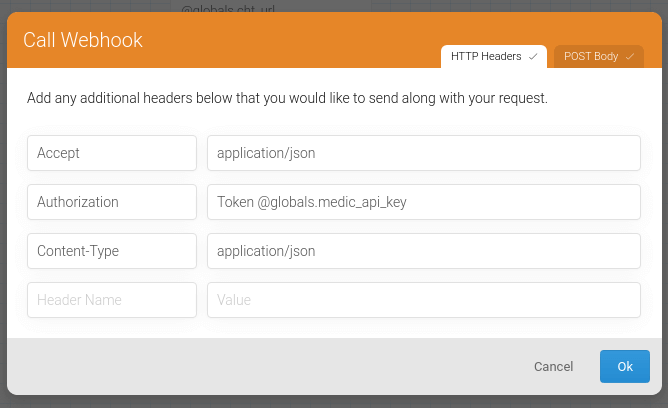
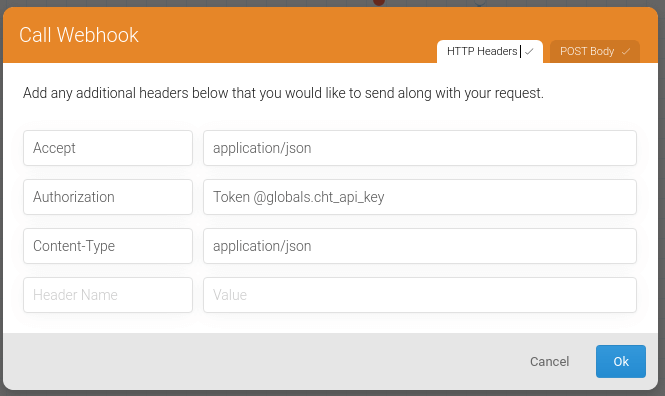
Switch medic to cht where appropriate.

diff --git a/content/en/apps/guides/messaging/rapidpro.md b/content/en/apps/guides/messaging/rapidpro.md
@@ -19,16 +19,16 @@ As of v3.11.0, SMS messages can be sent and received using [RapidPro](https://co
 
 ### Store globals
 
-Generate a long unique key to use as the `medic-api-key`.
+Generate a long unique key to use as the `cht_api_key`.
 
 Log in to your RapidPro dashboard, go to the globals page (`/globals/`) and create two globals with the following data:
 
 - name: `cht_url`, value: `https://<your-cht-instance-host>/api/v1/sms/radpidpro/incoming-messages`. The instance host should not include basic authentication.
-- name: `medic_api_key`, value: `<medic-api-key>`
+- name: `cht_api_key`, value: `<cht_api_key>`
 
 The names of these two globals are flexible, but in this document we will keep referring at the names defined above. 
 
-Then visit the RapidPro workspace settings page (`/org/home/`) and check your RapidPro API token (we'll refer to this as the `rapidpro-api-key`).
+Then visit the RapidPro workspace settings page (`/org/home/`) and check your RapidPro API token (we'll refer to this as the `rapidpro_api_key`).
 
 ### Create a new flow
 
@@ -64,7 +64,7 @@ Create a trigger (`/trigger/`) to start the new flow when a message is not handl
 
 For more details about RapidPro configuration, please consult the [RapidPro integration documentation]({{% ref "apps/guides/integrations/rapidpro" %}}). 
 
-## Medic configuration
+## CHT Core configuration
 
 ### API keys
 
@@ -73,8 +73,8 @@ The API keys should be treated as securely as a password as anyone with access t
 To add the credentials to the admin config you need to either [PUT the value using curl](https://docs.couchdb.org/en/stable/api/server/configuration.html#put--_node-node-name-_config-section-key) or similar:
 
 ```sh
-curl -X PUT https://<user>:<pass>@<domain>/_node/couchdb@127.0.0.1/_config/medic-credentials/rapidpro:incoming -d '"<medic-api-key>"'
-curl -X PUT https://<user>:<pass>@<domain>/_node/couchdb@127.0.0.1/_config/medic-credentials/rapidpro:outgoing -d '"<rapidpro-api-key>"'
+curl -X PUT https://<user>:<pass>@<domain>/_node/couchdb@127.0.0.1/_config/medic-credentials/rapidpro:incoming -d '"<cht_api_key>"'
+curl -X PUT https://<user>:<pass>@<domain>/_node/couchdb@127.0.0.1/_config/medic-credentials/rapidpro:outgoing -d '"<rapidpro_api_key>"'
 ```
 
 {{% alert title="Note" %}}
@@ -99,6 +99,7 @@ Update your app settings as follows.
     "rapidpro": {
       "url": "<RapidPro instance url>"
     }
+  }
   }
 }
 ```

diff --git a/content/en/apps/guides/messaging/africas-talking.md b/content/en/apps/guides/messaging/africas-talking.md
@@ -19,16 +19,16 @@ As of v3.6.0, SMS messages can be sent and received using the [Africa's Talking]
 
 ## Africa's Talking configuration
 
-First generate a long unique key to use as the `medic-api-key`.
+First generate a long unique key to use as the `cht-api-key`.
 
 Log on to the [Africa's Talking Dashboard](https://account.africastalking.com) and configure your callback URLs as follows.
 
-- Delivery Reports: `https://<hostname>/api/v1/sms/africastalking/delivery-reports?key=<medic-api-key>`
-- Incoming Messages: `https://<hostname>/api/v1/sms/africastalking/incoming-messages?key=<medic-api-key>`
+- Delivery Reports: `https://<hostname>/api/v1/sms/africastalking/delivery-reports?key=<cht-api-key>`
+- Incoming Messages: `https://<hostname>/api/v1/sms/africastalking/incoming-messages?key=<cht-api-key>`
 
-Then generate an "API Key" (we'll refer to this as the `at-api-key`) and save this in your Medic configuration covered below.
+Then generate an "API Key" (we'll refer to this as the `at-api-key`) and save this in your CHT Core configuration covered below.
 
-## Medic configuration
+## CHT Core configuration
 
 ### API keys
 
@@ -37,7 +37,7 @@ The API keys should be treated as securely as a password as anyone with access t
 To add the credentials to the admin config you need to either [PUT the value using curl](https://docs.couchdb.org/en/stable/api/server/configuration.html#put--_node-node-name-_config-section-key) or similar:
 
 ```sh
-curl -X PUT https://<user>:<pass>@<domain>/_node/couchdb@127.0.0.1/_config/medic-credentials/africastalking.com:incoming -d '"<medic-api-key>"'
+curl -X PUT https://<user>:<pass>@<domain>/_node/couchdb@127.0.0.1/_config/medic-credentials/africastalking.com:incoming -d '"<cht-api-key>"'
 curl -X PUT https://<user>:<pass>@<domain>/_node/couchdb@127.0.0.1/_config/medic-credentials/africastalking.com:outgoing -d '"<at-api-key>"'
 ```
 
